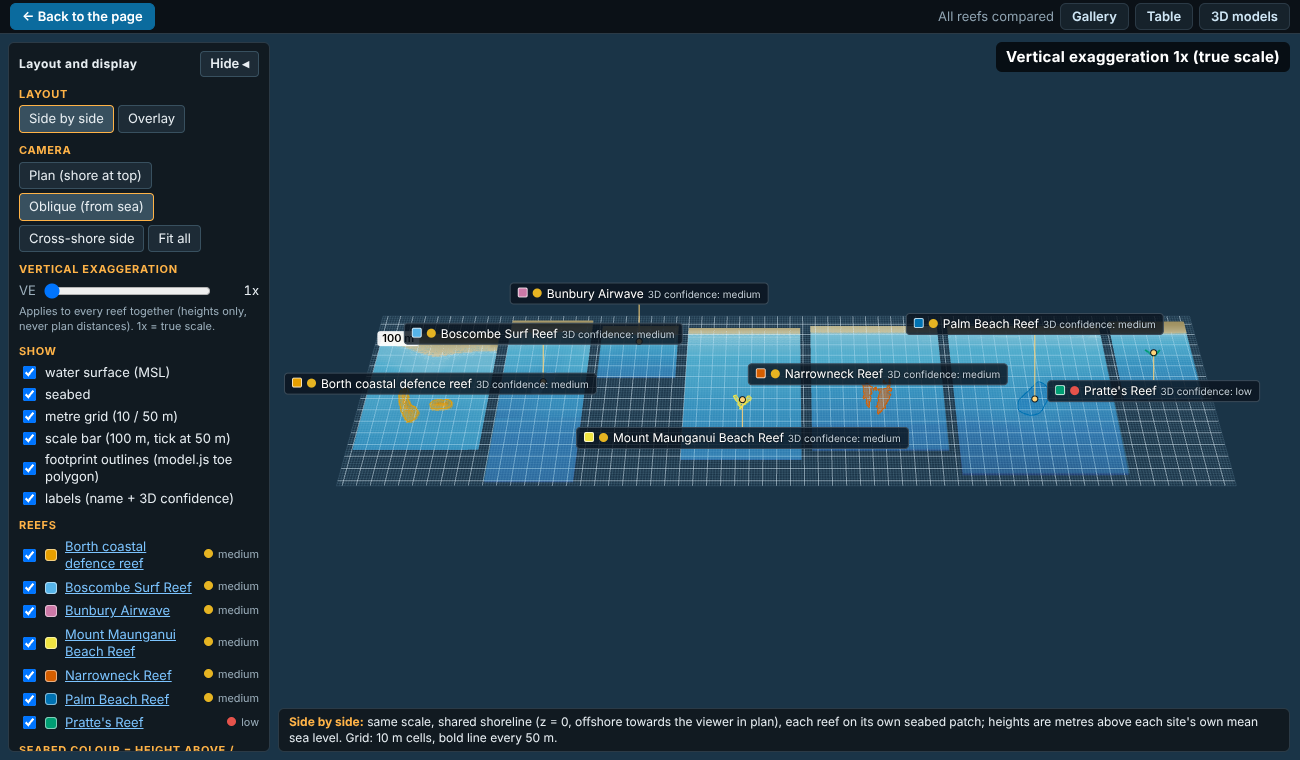
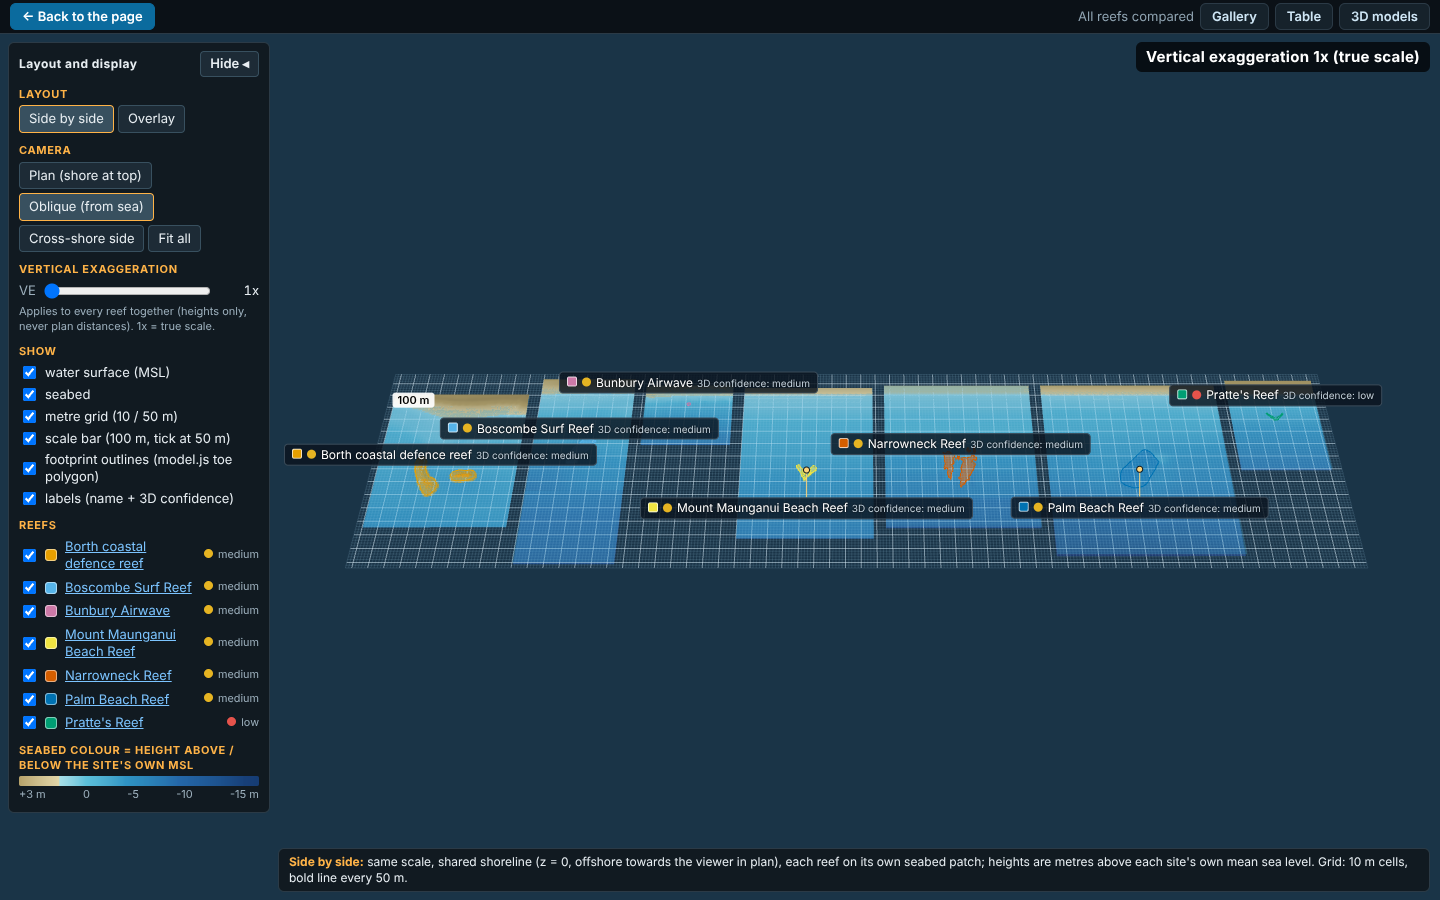
WIP checkpoint: agents in progress
Claude-Session: https://claude.ai/code/session_01QomPr3DTbVDqthgNQChCrv

Changed region(s): [[0.0, 0.0, 1.0, 0.9987]]

diff --git a/07_scale/shapes/borth-coastal-defence-reef/3d/index.html b/07_scale/shapes/borth-coastal-defence-reef/3d/index.html
@@ -335,7 +335,7 @@ $('cap').innerHTML = `<b>${M.name}</b><br>z = 0 at MSL (z_MSL = z_ODN − 0.31).
 (function mkSources() {
   const rows = M.provenance.map(p => `<tr><td>${p.parameter}</td><td>${p.value} ${p.unit && p.unit !== '-' ? '' : ''}</td><td>${p.source_id}</td><td>${p.method}</td><td class="${p.estimated ? 'est' : ''}">${p.uncertainty}${p.estimated ? ' (estimated)' : ''}</td></tr>`).join('');
   $('t3').innerHTML = `<h3>3D confidence: <span class="badge b-${C.level}">${C.level.toUpperCase()}</span></h3><p>${C.reason}</p>
-  <h3>Provenance (every model value)</h3><table><tr><th>Parameter</th><th>Value</th><th>Source</th><th>Method</th><th>Uncertainty</th></tr>${rows}</table>
+  <p class="small">Source register (what was read off each source and how), methods, assumptions A1-A14, decisions DEC1-DEC14 and confidence per element: <b>Methods tab, button &ldquo;Sources, assumptions, decisions&rdquo;</b>.</p><h3>Provenance (every model value)</h3><table><tr><th>Parameter</th><th>Value</th><th>Source</th><th>Method</th><th>Uncertainty</th></tr>${rows}</table>
   <h3>Datum levels (mODN to model z)</h3><table><tr><th>Level</th><th>mODN</th><th>m MSL</th><th>Source</th></tr>${allLevels.map(l => `<tr><td>${l.name}</td><td>${fmt(l.z_ODN)}</td><td>${fmt(l.z)}</td><td class="${l.estimated ? 'est' : ''}">${l.source}</td></tr>`).join('')}</table>`;
 })();
 

diff --git a/04_build/src/check.py b/04_build/src/check.py
@@ -455,7 +455,7 @@ def main() -> int:
                 check("Shape not drawn" in dd, f"[dialog {s}] shows the 'Shape not drawn' text")
             L = by[s].get("location") or {}
             if L.get("maps_url"):
-                ok = (X and 'target="_blank"' in dd and "noopener" in dd and "Google Maps" in dd
+                ok = (f'href="{L["maps_url"].replace("&", "&amp;")}"' in dd and 'target="_blank"' in dd and "noopener" in dd and "Google Maps" in dd
                       and (L["approximate"] is False or "approximate location" in dd))
                 check(ok, f"[dialog {s}] Location link to Google Maps (new tab, noopener{', labelled approximate' if L['approximate'] else ''})")
             else:

diff --git a/07_scale/shapes/bunbury-airwave/SOURCE_AUDIT_2026-10-10.md b/07_scale/shapes/bunbury-airwave/SOURCE_AUDIT_2026-10-10.md
@@ -54,7 +54,7 @@ Columns: statement -> source -> location -> how used -> status (ok / fixed / mis
 Counts: 29 rows; ok 22, fixed 6, mismatch 1, missing 0. "Statements checked" counts distinct numbers or claims; roughly 60 individual figures were compared against computed.json / shape.json / HANDOFF / models3d_curated.json with no difference.
 
 ## 3. Citations
-Section 8 of METHODS_3D has full citations with URLs and access dates for 21 items. Added: Bakalo (2026), the Troy interview. Not confirmed (left as is, no invention): Department of Defence (2018) tidal planes (cited via GHD 2021, not seen); Tradie Magazine 2019 and SurferToday 2019 (seen in search text only); Swellnet thread (anonymous, secondary). Authors of the 2019 ABC, Tracks and RWR articles are not given in the section 8 entries (ABC photo credit "De Poloni, Gian" is in the registry). Not completed in this run: WebSearch/WebFetch were not available to this agent, so the author names of the articles above are NOT confirmed; listed in REQUESTS_FOR_LIOR.md (E5b).
+Section 8 of METHODS_3D has full citations with URLs and access dates for 21 items. Added: Bakalo (2026), the Troy interview. Not confirmed (left as is, no invention): Department of Defence (2018) tidal planes (cited via GHD 2021, not seen); Tradie Magazine 2019 and SurferToday 2019 (seen in search text only); Swellnet thread (anonymous, secondary). Authors of the 2019 ABC, Tracks and RWR articles are not given in the section 8 entries (ABC photo credit "De Poloni, Gian" is in the registry). WebSearch (2 queries, 2026-10-10) did not return the ABC 2019b or Tracks 2019b article pages or their bylines, so those author names are NOT confirmed; listed in REQUESTS_FOR_LIOR.md (E5b).
 
 ## 4. Rebuild check
 `python build_3d.py` was run only to refresh documentation. model.js before/after compared as JSON: changed fields = `meta.built` (date), `meta.verdict_reason` (the card now carries the 2026-10-10 update with R25), one new entry in `sources` (S_Troy), `provenance[1].uncertainty` (fill-row text). No geometry, grid, tide or number changed. computed.json: only `build_date`, `verdict_reason`, `ref_ids` (now includes R25). index.html unchanged (md5 identical). Line endings kept CRLF (model.js, docs.js, METHODS_3D.md, SOURCES_3D.md, computed.json, build_3d.py, template).

diff --git a/03_images/reefs/borth-coastal-defence-reef/IMAGES.md b/03_images/reefs/borth-coastal-defence-reef/IMAGES.md
@@ -672,7 +672,7 @@ Source of truth: `images.json` in this folder (convention: `_agent_briefs/image_
 - **licence**: Open Government Licence v3 (data); figure private research copy
 - **retrieved**: 2026-10-06
 - **used for**: 3d_crest; 3d_height_slopes; 3d_seabed; 3d_tides; cross_check; plan_trace
-- **How used for the model**: Measured (values only; the tile is not kept in the project): exposed footprint N 5861 m2 and S 2814 m2; DSM crest p90 +0.72 mODN on the northern arm, +1.0..+1.15 near the tail, +1.5 on the oval (design +0.50 / +1.00 / +1.50); mean flank slope 1:4.4 (-1.5..-0.5 mODN) and 1:5.3 (-0.5..+0.2), flatter than the design 1:3; width at -2.3 mODN 34-37 m (arm), 50 m (head), 38-41 m (oval). The sea surface at acquisition (lowest returns -2.2..-2.4 mODN) matches LAT -2.44 mODN. Heights assumed ODN (not stated in the file).
+- **How used for the model**: Measured (values only; the tile is not kept in the project): exposed footprint N 5861 m2 and S 2814 m2; DSM crest p90 +0.72 mODN on the northern arm, +1.0..+1.15 near the tail, +1.5 on the oval (design +0.50 / +1.00 / +1.50); mean flank slope 1:4.4 (-1.5..-0.5 mODN) and 1:5.3 (-0.5..+0.2), flatter than the design 1:3; width at -2.3 mODN 34-37 m (arm), 50 m (head), 38-41 m (oval). The sea surface at acquisition (lowest returns -2.2..-2.4 mODN) matches LAT -2.44 mODN. Heights assumed ODN (not stated in the file). AUDIT 2026-10-10: the crest statistic depends on the cell mask; the 3D build (METHODS_3D 4.2) reports N arm median +0.58 / p90 +0.91 mODN on its own mask, the verifier +0.72..+0.88 (p90); not a conflict, neither is a model input.
 - **3D check pending**: no - model crest and flank shape vs the LiDAR DSM (heights assumed ODN, +-0.15 m); exposed footprint at -2.3 mODN
 - **linked records**: 07_scale/shapes/borth-coastal-defence-reef/shape.json source lidar2022; canonical.alt_outlines_m.lidar_exposed_2022-03-19; 07_scale/shapes/borth-coastal-defence-reef/VERIFY.md 3D inputs
 - **size**: 0.34 MB, 1650x792 px

diff --git a/07_scale/shapes/bunbury-airwave/HANDOFF.md b/07_scale/shapes/bunbury-airwave/HANDOFF.md
@@ -85,3 +85,6 @@ Bunbury is FINISHED at MEDIUM confidence and consistent; this HANDOFF was writte
 
 ## 8. UPDATE 2026-10-10 - new source R25 (personal communication)
 Lior Bakalo, Zoom interview with Troy (founder of Airwave), 8 Oct 2026, notes as reported by Lior (no URL, unrecorded, developer = interested party). Key points: final design filled with SAND instead of air (air did not respond well with the waves); seam opened a couple of days after installation; worked "amazingly / perfect waves" until then (unverified founder claim); next version is concrete. Recorded on the card as R25 plus a `sources_disagree` list (fill, failure timing, waves, future). Verdict stays FAILED; verdict text now notes the founder's wave claim and the lack of independent confirmation. Caption "sand-slurry filled" in section 6 is consistent with the founder's sand statement; the card's older "air/sand" wording is kept and flagged. Shape and 3D model untouched.
+
+## 9. SOURCE AUDIT 2026-10-10
+`SOURCE_AUDIT_2026-10-10.md` done (29 rows: 22 ok, 6 fixed, 1 card/model location mismatch). METHODS_3D now has 2.2 fill disagreement (ABC air / Tracks sand+air / Troy sand not air; unresolved), 2.3 how each source was used, 3.8 A14, 3.9 decisions DEC1-DEC12, L12, Bakalo (2026) reference; S_Troy added to the viewer sources. Rebuilt for docs only: model.js changed in text fields only (built date, verdict_reason, +1 source, fill provenance text). Page text edit proposals for main are in the audit file section 6. Citation authors for ABC/Tracks 2019 not confirmed (REQUESTS E5b).

diff --git a/07_scale/shapes/bunbury-airwave/METHOD.md b/07_scale/shapes/bunbury-airwave/METHOD.md
@@ -110,3 +110,6 @@ What this means for the shape trace (nothing in `shape.json` was changed):
 - Date of the source photos: img1 is the header image of RWR's tear post of 2019-12-16 (file uploaded 2019-12-17 03:31 UTC, decoded from its `?v=` stamp, see VERIFY.md Check 5) and img4 is a frame of the ABC video 11804314 (Last-Modified 2019-12-16). Both files are dated December 2019 by their hosts, which independently supports December 2019 and contradicts "In 2018" for the install shown in the photos.
 - State drawn: the installed, partly anchored bladder of the December 2019 attempt (about 90% installed, torn). It is not a successfully operating reef; any page caption should say "December 2019 installation attempt (torn)", not "2018 deployment" or "successful".
 - Fill/mass (140 t per Tracks 2021 and Bunbury Mail 2022; 150 t per the Waveco page) is not used in the trace; the 3D note in `3d/SOURCES_3D.md` discusses it.
+
+## Fill of the bladder: sources disagree (added 2026-10-10)
+ABC (2019b, 16 Dec 2019) calls it a bladder "filled with air"; Tracks (2019b) says sand + air; Bunbury Mail 2022 and Waveco 2025 say sand slurry (140 / 150 t); Bakalo (2026), Zoom interview with Troy (Airwave founder), 8 Oct 2026, unrecorded, notes as reported by Lior (card R25): the final design uses sand instead of air. Not resolved which design the Dec 2019 bladder was. The trace and scale do not depend on the fill; no value in shape.json changed. Details: `3d/METHODS_3D.md` section 2.2.
